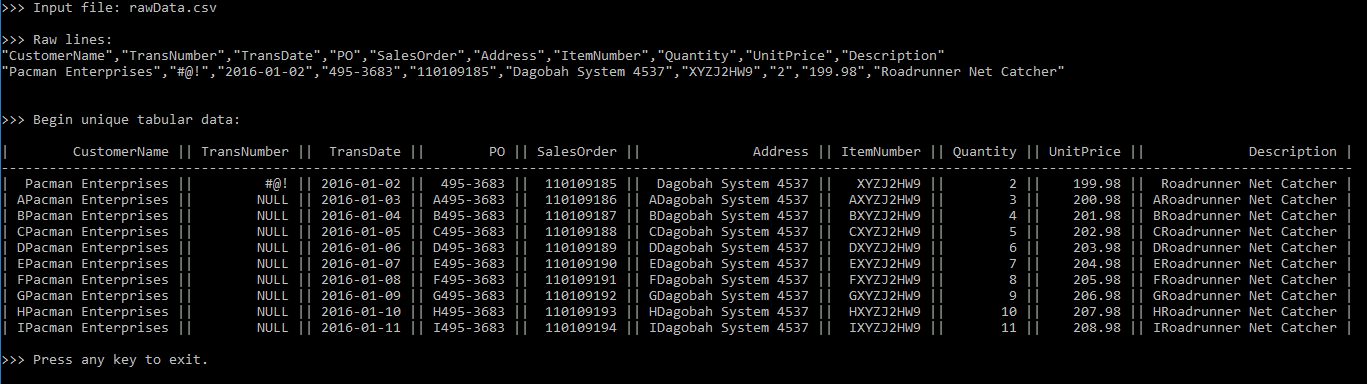
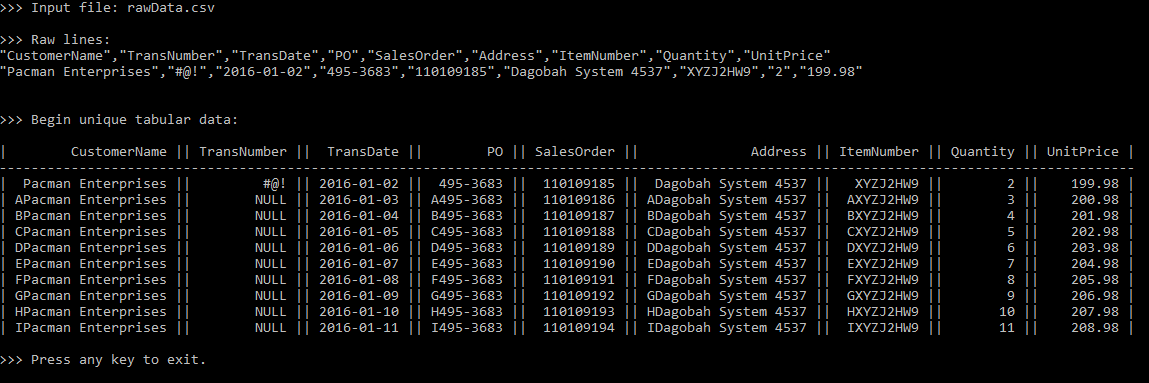
Updt.

diff --git a/FileReadWrite/TextLines.cs b/FileReadWrite/TextLines.cs
@@ -41,20 +41,20 @@ namespace FileReadWrite
             recordList = objPreProcess.SplitValues(recordLine, valueDelimiter);
 
             // Header edit
-            int[] elementIndex = new int[] { }; // Defaults to elementIndex[0] (no elements)
+            int[] elementIndex = new int[] { };
             UpdateLine objUpdateHead = new UpdateLine(headList);
             objUpdateHead.ModifySingleLine(elementIndex);
 
             // Row edit
             int totalLines = 10;
-            elementIndex = new int[] { 0,1,2,3,4,5,6,7,8,9 };
+            elementIndex = new int[] { 0,1,2,3,4,5,6,7,8 };
             UpdateLine objUpdateLine = new UpdateLine(recordList, totalLines);
             if (totalLines < 2)
             { objUpdateLine.ModifySingleLine(elementIndex); }
             else
             { objUpdateLine.ModifyMultiLine(elementIndex); }
 
-            // Longest field indexes for padding of columns
+            // Longest field indexes for column padding
             List<int> lenghtStrArr = new List<int>();
             ProcessLines objPostProcess = new ProcessLines();
             lenghtStrArr = objPostProcess.CompareFields(objUpdateHead, objUpdateLine);
